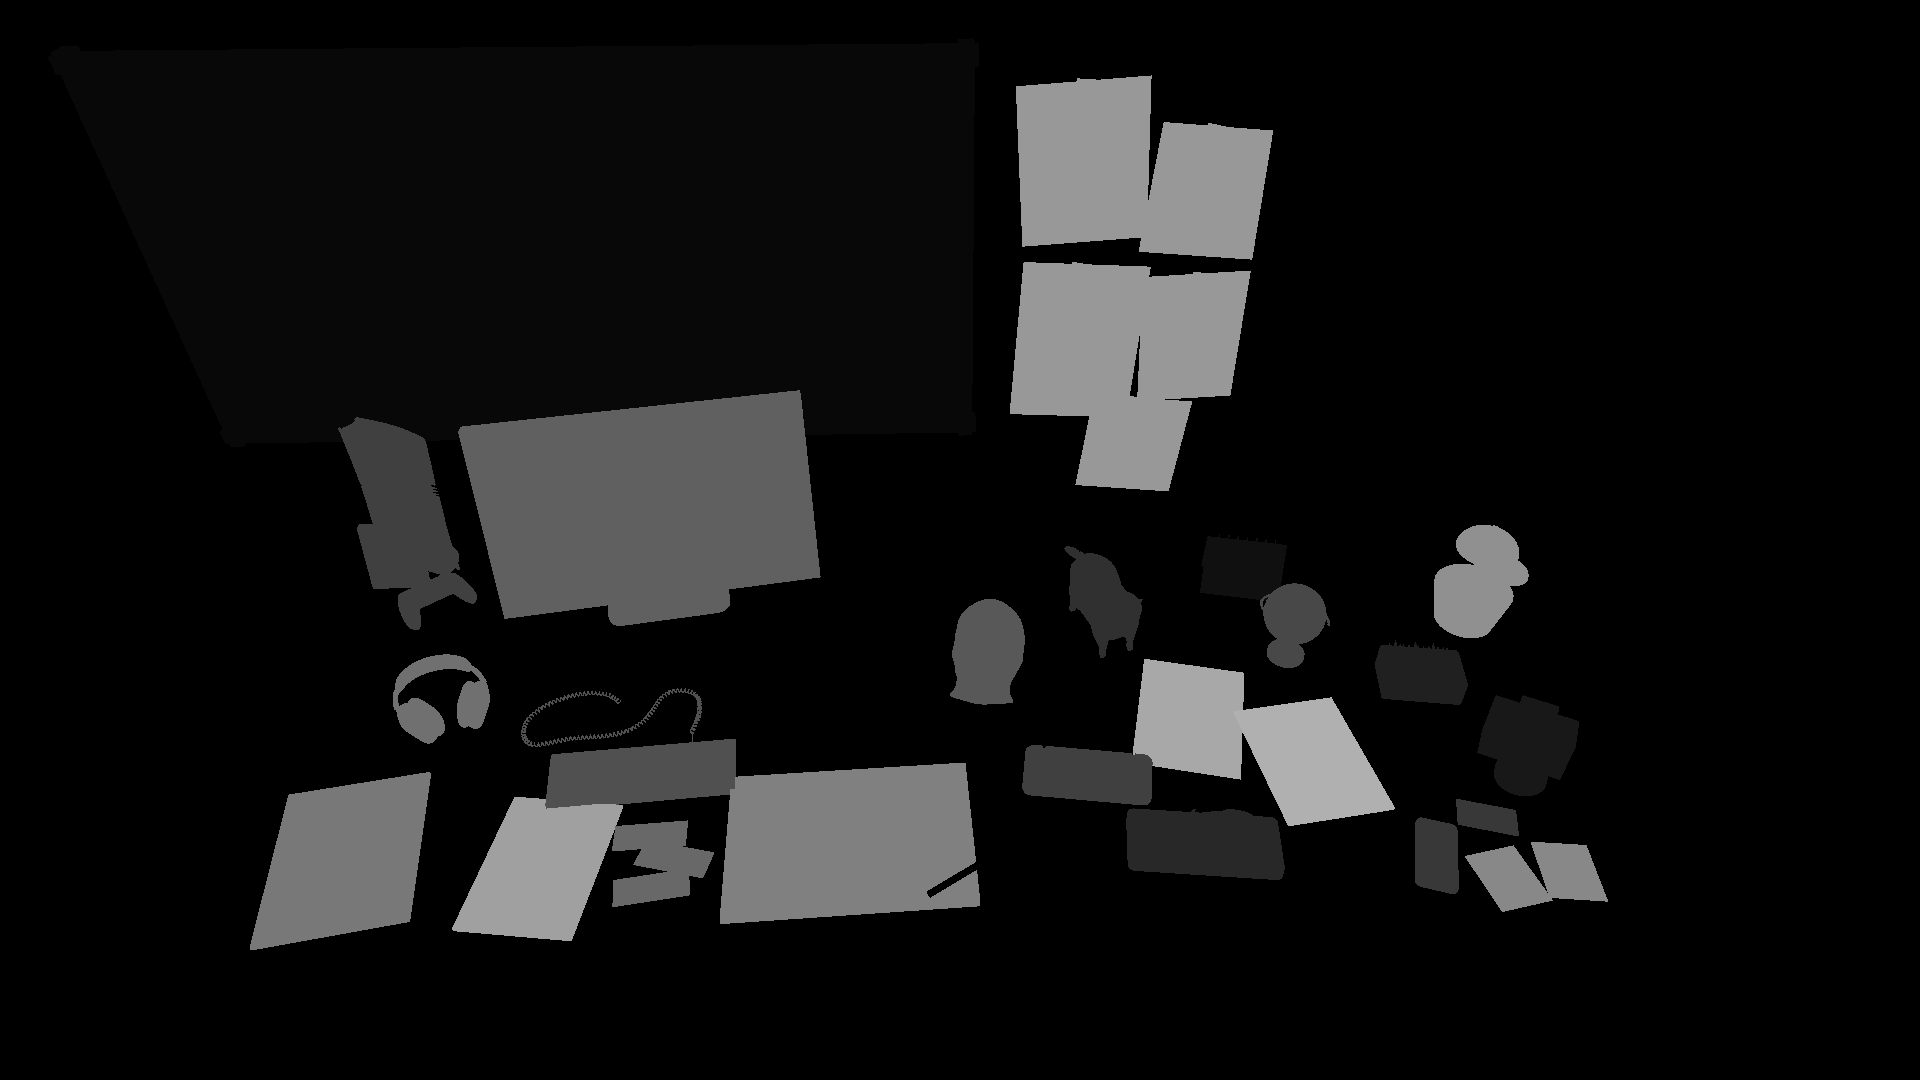
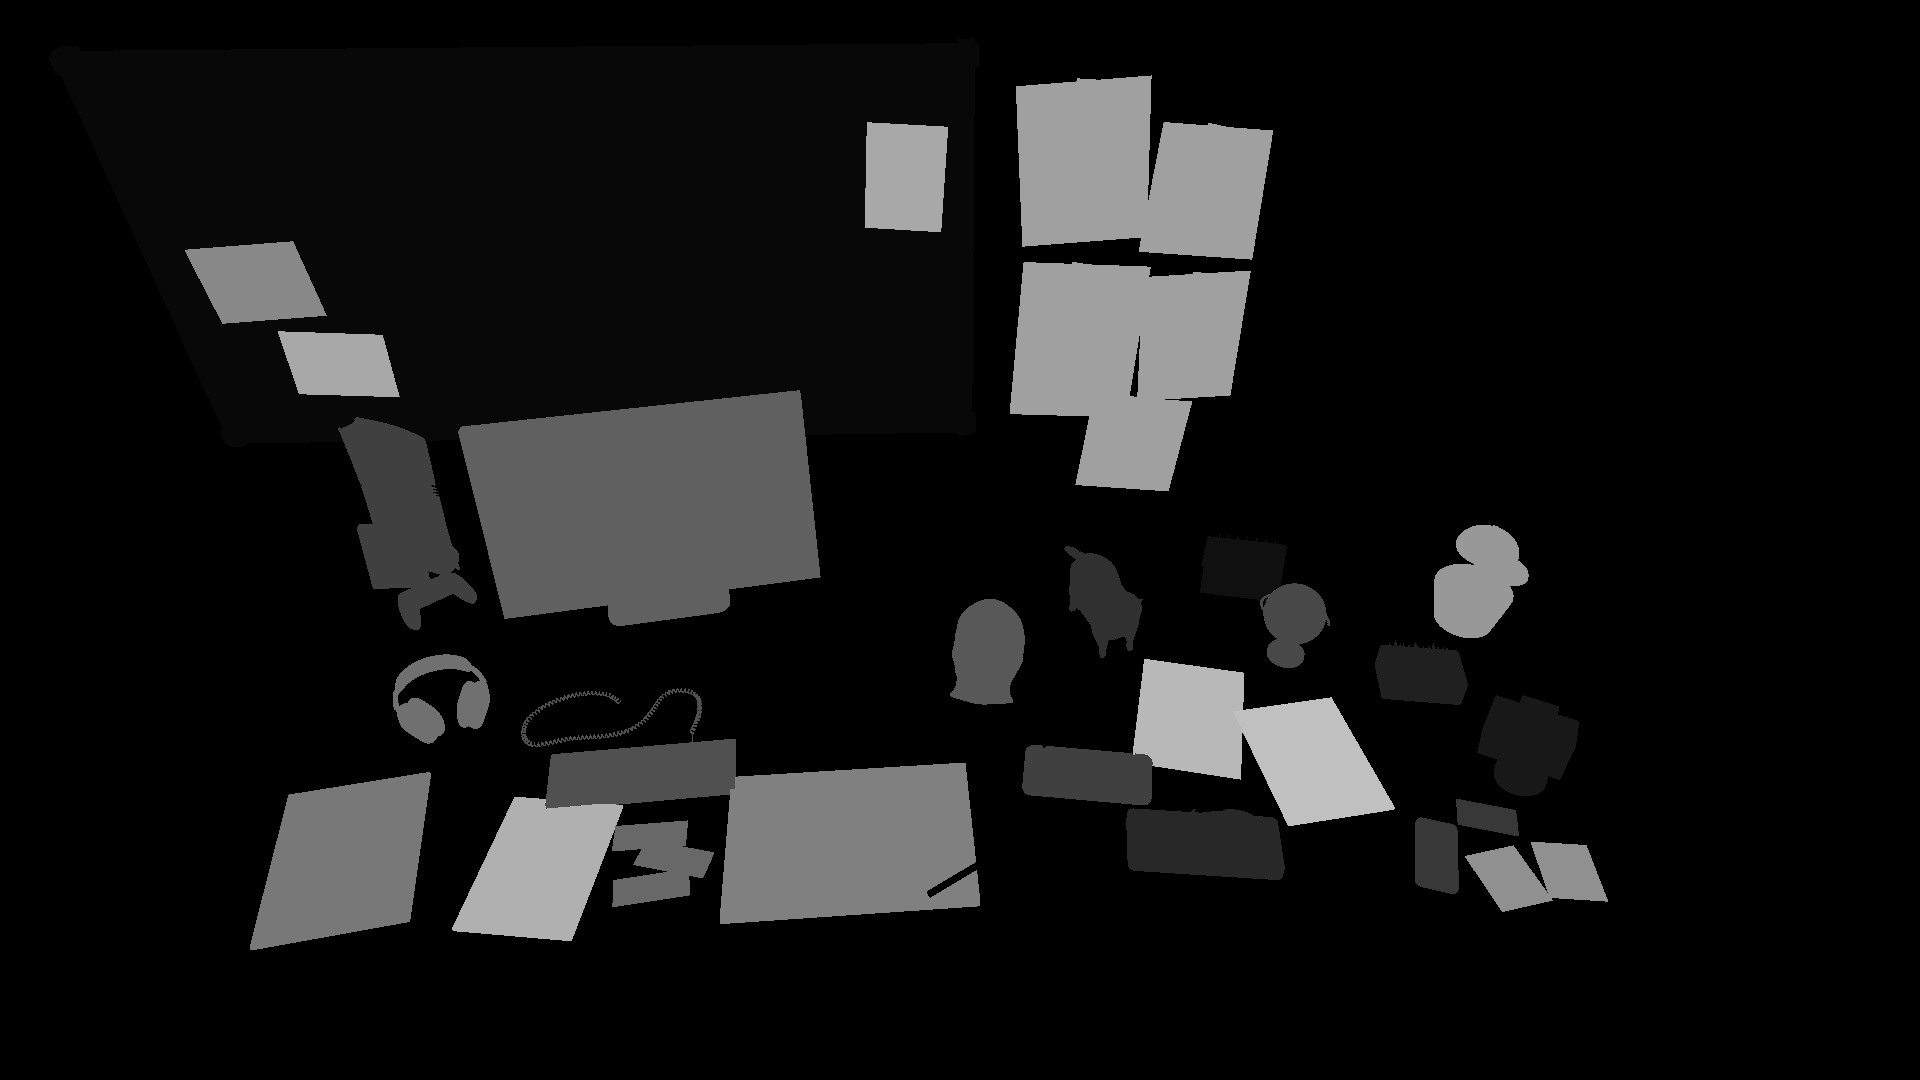
Corkboard NOW note and work cards open their panels (#6)
* Scaffold Next.js personal site based on EdwinjJ1/personal-website

Static-export Next.js 15 site with home, about, projects, blog and
photography pages, a zh/en language switch, light/dark themes with the
WebGL starfield backdrop, placeholder content in src/data, and a GitHub
Pages deploy workflow.

Claude-Session: https://claude.ai/code/session_019ggxabgDhCYUh62LeLnHLD

* Switch to the 3D desk site from EdwinjJ1/personal-website 002

Replace the Next.js portfolio with the Blender desk + ten-style WebGL
site. The original author's text, photos, project art, logo and resume
details are removed and replaced with placeholders; hotspots are renamed
to generic ones (zine-1..4, badge, plant, table-model) and the club mascot
is dropped. Textures now use bundled OFL fonts so they build on any OS,
web fonts are self-hosted, and the chat falls back to canned answers until
a Worker is deployed. Renders (site/assets/styles, hot.png, scene.json)
are not generated yet.

Claude-Session: https://claude.ai/code/session_019ggxabgDhCYUh62LeLnHLD

* Remove the original author's journal API address and keychain name

Claude-Session: https://claude.ai/code/session_019ggxabgDhCYUh62LeLnHLD

* Redesign desk objects for a self-showcase site

Remove the trophies, GitHub city, round-table model and echo puck. Add a
mini race track with a Porsche, a year-in-review calendar, a globe, movie
ticket stubs, an index-card box for podcasts and WeChat reads, a sleeping
[…]

Changed region(s): [[0.0938, 0.2139, 0.2188, 0.3667], [0.4375, 0.0917, 0.5, 0.2139]]

diff --git a/site/js/app.js b/site/js/app.js
@@ -1,13 +1,13 @@
 // 入口：状态、交互、面板（静态 + 从旧站导入的内容）、对话、阅读模式。画面交给 stage.js，坐标换算在 geometry.js。
 import { groupAlbums } from './albums.js';
 import { streamChat } from './chat.js';
-import { ALBUMS, APPLE_MUSIC, CHAT, DYNAMIC, HOTS, INTRO_ORDER, LABELS, NOTEBOOK, PANELS, STYLES, UI, appleEmbed, matchTopic } from './content.js?v=20261030-2';
+import { ALBUMS, APPLE_MUSIC, CHAT, DYNAMIC, HOTS, INTRO_ORDER, LABELS, NOTEBOOK, PANELS, STYLES, UI, appleEmbed, matchTopic } from './content.js?v=20261030-3';
 import * as G from './geometry.js?v=20261011-1';
 import { renderGithub, tipLabel } from './github.js';
 import { renderJournal } from './journal.js?v=20261012-2';
 import { coverUrl, createPlayer, fmtTime } from './music.js';
 import { renderNews } from './news.js';
-import { createStage, hexToRgb, styleUrl } from './stage.js?v=20261030-2';
+import { createStage, hexToRgb, styleUrl } from './stage.js?v=20261030-3';
 import { createTour } from './tour.js';
 import { CENTER as WEB_CENTER, earthOf, hostOf, webLayout } from './web.js';
 
@@ -1003,12 +1003,12 @@ async function boot() {
   applyLang();
   buildHud();
   try {
-    scene = await (await fetch('assets/scene.json?v=20261030-2')).json();
+    scene = await (await fetch('assets/scene.json?v=20261030-3')).json();
     img = { w: scene.width, h: scene.height };
     hotByIndex = Object.entries(scene.hots).reduce((arr, [name, h]) => { const next = arr.slice(); next[h.index] = name; return next; }, []);
     stage = createStage(dom.canvas, img);
     progress(0.2);
-    const hotImg = await new Promise((res, rej) => { const im = new Image(); im.onload = () => res(im); im.onerror = rej; im.src = 'assets/hot.png?v=20261030-2'; });
+    const hotImg = await new Promise((res, rej) => { const im = new Image(); im.onload = () => res(im); im.onerror = rej; im.src = 'assets/hot.png?v=20261030-3'; });
     const cv = document.createElement('canvas');
     cv.width = hotImg.width;
     cv.height = hotImg.height;

diff --git a/site/index.html b/site/index.html
@@ -7,13 +7,13 @@
   <meta name="description" content="Simon Xu 的个人网站：一张桌子，十个宇宙。">
   <meta property="og:title" content="Simon Xu · One desk, ten universes">
   <meta property="og:description" content="Click the mask to switch universe.">
-  <meta property="og:image" content="assets/styles/comic@1x.webp?v=20261030-2">
+  <meta property="og:image" content="assets/styles/comic@1x.webp?v=20261030-3">
   <meta name="theme-color" content="#14121c">
   <link rel="stylesheet" href="css/fonts.css">
-  <link rel="stylesheet" href="css/main.css?v=20261030-2">
+  <link rel="stylesheet" href="css/main.css?v=20261030-3">
   <link rel="stylesheet" href="css/news.css">
   <link rel="stylesheet" href="css/mobile.css?v=20261011-1">
-  <link rel="preload" as="image" href="assets/styles/comic@1x.webp?v=20261030-2">
+  <link rel="preload" as="image" href="assets/styles/comic@1x.webp?v=20261030-3">
 </head>
 <body>
   <div id="loader" role="status">
@@ -64,6 +64,6 @@
     </div>
   </noscript>
 
-  <script type="module" src="js/app.js?v=20261030-2"></script>
+  <script type="module" src="js/app.js?v=20261030-3"></script>
 </body>
 </html>

diff --git a/site/js/content.js b/site/js/content.js
@@ -20,6 +20,8 @@ export const STYLES = [
 // 场景里的热点名 → 面板；action 表示不是面板的特殊行为
 export const HOTS = {
   board: { panel: 'about' },
+  now: { panel: 'now' },
+  work: { panel: 'work' },
   press: { panel: 'press' },
   monitor: { action: 'chat' },
   keyboard: { action: 'chat' },
@@ -45,6 +47,8 @@ export const HOTS = {
 
 export const LABELS = {
   board: { zh: '我是谁', en: 'Who is Simon?' },
+  now: { zh: '最近在做什么', en: 'What I am doing now' },
+  work: { zh: '实习经历', en: 'Where I have worked' },
   press: { zh: '剪报墙', en: 'Press clippings' },
   monitor: { zh: '跟我聊聊', en: 'Talk to me' },
   keyboard: { zh: '点键盘，跟我聊', en: 'Click the keyboard. Talk to me.' },

diff --git a/site/js/stage.js b/site/js/stage.js
@@ -79,7 +79,7 @@ function loadImage(src) {
 }
 
 /** 一个风格的贴图地址；hi=true 是全尺寸。手机上的小地图也用它，跟舞台走同一份缓存。 */
-export const styleUrl = (id, hi = false, base = 'assets/') => `${base}styles/${id}${hi ? '' : '@1x'}.webp?v=20261030-2`;
+export const styleUrl = (id, hi = false, base = 'assets/') => `${base}styles/${id}${hi ? '' : '@1x'}.webp?v=20261030-3`;
 
 export function hexToRgb(hex) {
   const h = hex.replace('#', '');

diff --git a/pipeline/stylize.py b/pipeline/stylize.py
@@ -408,13 +408,47 @@ def skyline_track(C, hot):
     return np.where(bars, 1 + np.rint(t * 253), hot).astype(np.uint8), np.where(bars, 255, hot).astype(np.uint8)
 
 
+# 软木板贴图（2400×1176）上单独可点的几张纸：热点名 → [(中心 x, y, 宽, 高, 角度)]，和 textures.py 里 stick() 的参数一致
+BOARD_TEX = (2400, 1176)
+BOARD_SPOTS = {
+    "now": [(250, 640, 330, 250, 4)],                              # 黄色 NOW 便签
+    "work": [(410, 930, 320, 230, -3), (2240, 330, 230, 320, -4)],  # 实习年表便签、腾讯卡片
+}
+
+
+def board_spots(C, board):
+    """把 BOARD_SPOTS 的纸片按软木板四角投到画面上，只留在软木板像素里。"""
+    corners = C.meta["surfaces"].get("board")
+    if corners is None:
+        return {}
+    tw, th = BOARD_TEX
+    H = cv2.getPerspectiveTransform(np.float32([(0, 0), (tw, 0), (tw, th), (0, th)]), np.float32(corners))
+    spots = {}
+    for name, rects in BOARD_SPOTS.items():
+        m = np.zeros((C.H, C.W), np.uint8)
+        for cx, cy, w, h, a in rects:
+            pts = cv2.boxPoints(((cx, cy), (w, h), -a)).reshape(-1, 1, 2).astype(np.float32)
+            cv2.fillPoly(m, [np.rint(cv2.perspectiveTransform(pts, H)).astype(np.int32)], 1)
+        spots[name] = (m > 0) & board
+    return spots
+
+
 def export_hot(C, out):
     """热点图：R = 序号×8（0 = 无），G、B 见 skyline_track；顺带算每个热点的可见包围盒和中心。"""
-    names = sorted({o["hot"] for o in C.meta["ids"] if o["hot"]})
+    masks = {}
+    for o in C.meta["ids"]:
+        if o["hot"]:
+            masks.setdefault(o["hot"], []).append(C.key[o["object"]])
+    masks = {name: np.isin(C.K, keys) for name, keys in masks.items()}
+    if "board" in masks:
+        for name, m in board_spots(C, masks["board"]).items():
+            masks[name] = m
+            masks["board"] = masks["board"] & ~m
+    names = sorted(masks)
     hot = np.zeros((C.H, C.W), np.uint8)
     info = {}
     for i, name in enumerate(names, 1):
-        m = np.isin(C.K, [C.key[o["object"]] for o in C.meta["ids"] if o["hot"] == name])
+        m = masks[name]
         if not m.any():
             continue
         hot[m] = i * 8
